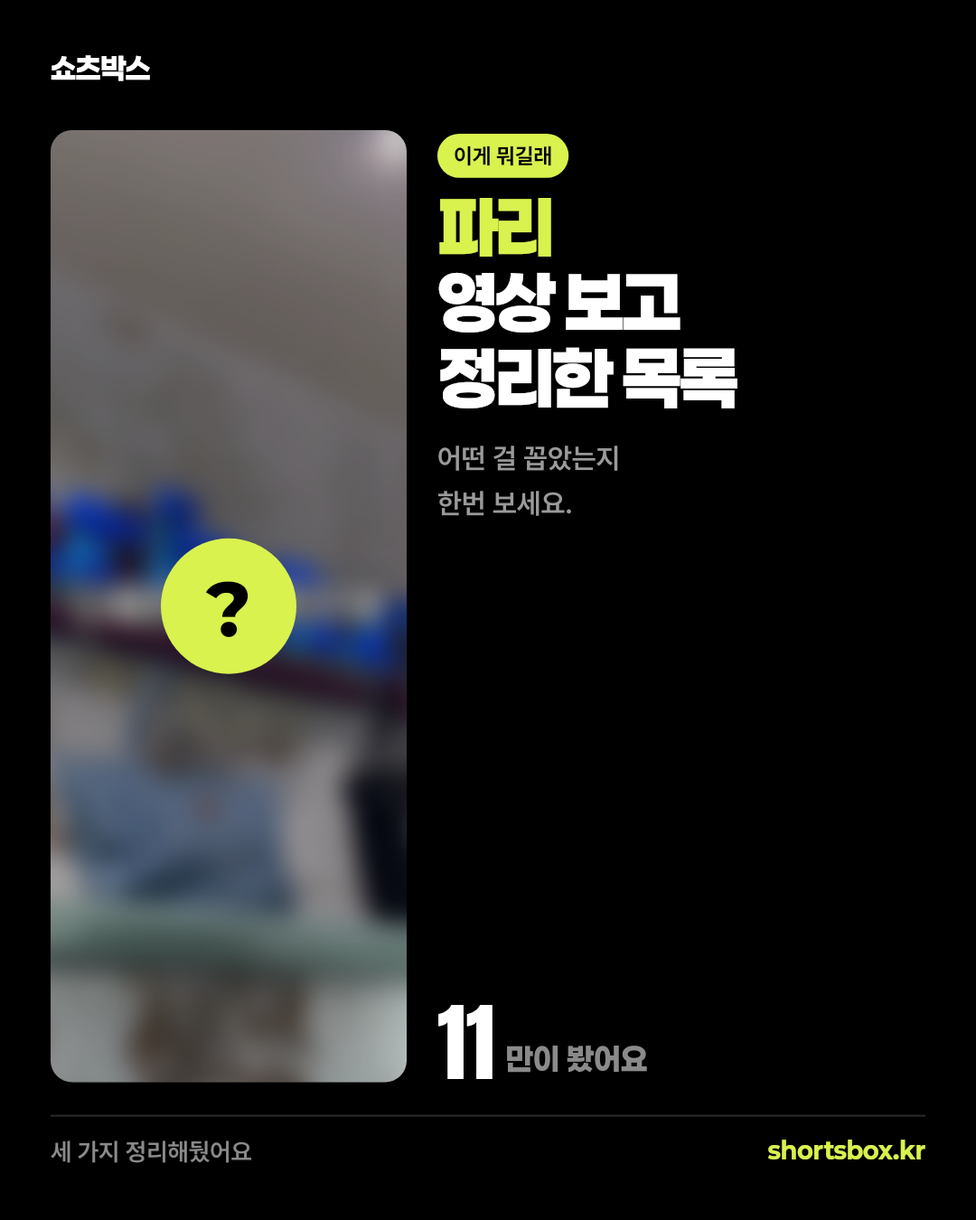
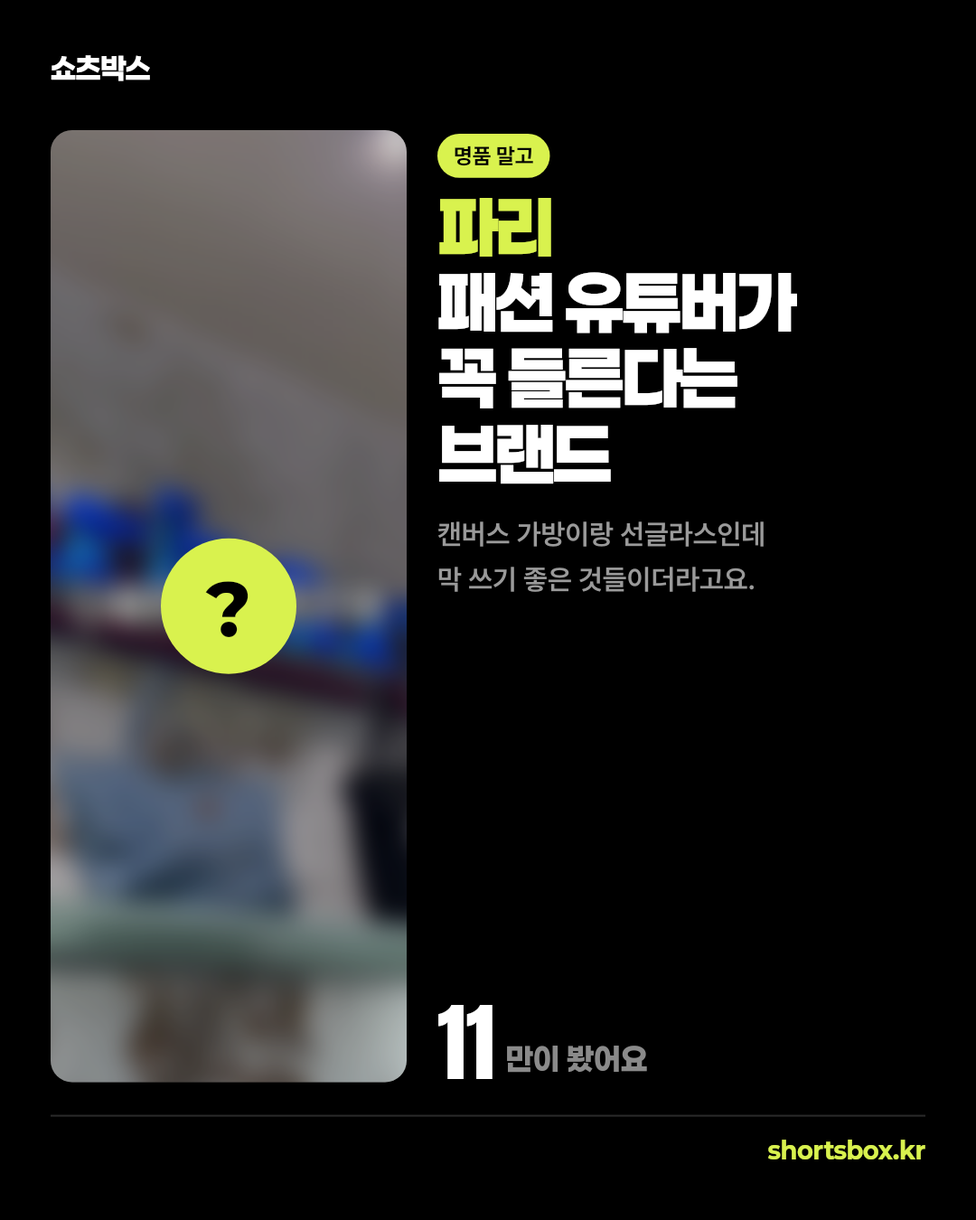
카드 카피를 영상 15개분 새로 쓰고 왼쪽 하단 문구를 뺀다
사용자가 오늘 파리 카드를 보고 "후킹이 전혀 안 된다"고 했다.

  파리 / 영상 보고 / 정리한 목록
  어떤 걸 꼽았는지 / 한번 보세요.

자동 생성(buildFallback) 카피다. 손으로 쓴 카피는 10개 영상에만 있었는데, 8/19 에
최근 60장에 쓴 영상을 제외하는 히스토리를 넣은 뒤로 그 10개는 한 번 쓰면 두 달간
안 나온다. 여행지가 10일마다 돌아오니 두 달이면 여행지당 영상 6개가 필요한데 손 카피는
1개씩뿐이었다 — 드물게 쓰려던 폴백이 매일 나가는 구조가 됐다. 로테이션을 그대로
시뮬레이션해보니 9/14 ~ 9/27 카드 14장이 전부 폴백이었다.

1. 그 14장 + 오늘 파리 = 영상 15개에 손 카피를 썼다.
   헤드라인마다 궁금증이 걸리는 한 가지를 뒀다 — 권위(패션 유튜버가 꼭 들른다는,
   여자 아이돌들이 꼭 집는다는), 통념 뒤집기(초콜릿만 사 오면 아쉽다는데, 기념품
   가게 말고 월마트에서), 반전(돈키호테 가서 꼭 담는다는 것들 → 대부분 냄새랑 얼룩
   잡는 거). 근거는 소개문구(영상을 보고 쓴 것)와 products 뿐이고 영상에 없는 말,
   가격 비교·순위는 넣지 않았다. 25개 전부 렌더해 자리 넘침 0 을 확인했다.

2. 카드 왼쪽 하단의 "세 가지 정리해뒀어요"를 뺐다(사용자 요청). 헤드라인과 같은 말을
   한 번 더 하는 자리였다. 구분선과 shortsbox.kr 은 둔다. 렌더러·빌더·카피 데이터·
   CARDNEWS.md 에서 foot 을 전부 걷어냈다.

오늘 파리 카드를 같은 영상(gIEuIZXNVR0)으로 다시 만들었다. 히스토리에서 오늘 항목을
지우고 돌려서 같은 영상이 다시 뽑히는 것과 copy_source 가 card-copy.js 인 것을 확인했다.

Changed region(s): [[0.4278, 0.2178, 0.825, 0.4978], [0.0611, 0.9333, 0.275, 0.9644], [0.4583, 0.0933, 0.5806, 0.1556]]

diff --git a/automation/card-copy.js b/automation/card-copy.js
@@ -10,7 +10,10 @@
    - 대화체 종결(~더라고요, ~대요, ~는데). 안내문 말투(~하세요, ~해보세요) 금지
    - 제품을 특정하지 않는다. `?`가 가린 게 무엇이든 문장이 성립해야 한다
    - 확인 못 한 것(가격 비교·순위·댓글 반응) 금지
-   - 구매 유도 금지. 푸터는 "정리해뒀어요"처럼 있는 사실만
+   - 구매 유도 금지
+   - **"영상 보고 정리한 목록" 같은 설명문은 후킹이 아니다.** 헤드라인엔 궁금증이 걸리는
+     한 가지(의외성·권위·반전·구체적 장면)가 있어야 한다. 2026-09-13 에 폴백 카피가
+     매일 나가는 걸 사용자가 "후킹이 전혀 안 된다"고 지적했다 — 아래 영상별 카피 참고
    - 카드 이미지 안에는 이모지 금지(디자인 원칙). 캡션에는 허용
    - 조회수는 캡션에만 쓴다. 카드 하단에 큰 숫자로 이미 있다
    - **headline 에 여행지 이름을 다시 쓰지 않는다.** 렌더러가 목적지를 헤드라인
@@ -29,7 +32,6 @@ const CARD_COPY = {
     badge: '이게 뭐길래',
     headline: ['승무원이', '7년째 쓴다는', '것들'],
     sub: ['짐 싸다 매번 뭔가 빠뜨리는', '사람이면 볼 만해요.'],
-    foot: '전부 정리해뒀어요',
     hook: '전직 승무원이 7년째 쓴다는 여행템을 꼽은 영상이 조회수 {views}만이 나왔더라고요',
     detail: '짐 싸다 매번 뭔가 빠뜨리는 사람이면 볼 만해요',
     dcTitle: '승무원들이 진짜 쓰는 여행템 뭐가 있음?',
@@ -41,7 +43,6 @@ const CARD_COPY = {
     badge: '이게 뭐길래',
     headline: ['돈키호테 가서', '이걸 안 사면', '후회한다는데'],
     sub: ['무조건 사와야 한다는 게', '하필 다 약이더라고요.'],
-    foot: '세 가지 정리해뒀어요',
     hook: '돈키호테에서 무조건 사와야 한다는 걸 꼽은 영상이 조회수 {views}만이 나왔는데',
     detail: '하필 다 약이더라고요. 파스랑 소화제, 비졸림 감기약',
     dcTitle: '돈키호테에서 약 사오는 사람 많음?ㅋㅋ',
@@ -53,7 +54,6 @@ const CARD_COPY = {
     badge: '이게 뭐길래',
     headline: ['일본인들이', '놀라자빠졌다는', '그 물건'],
     sub: ['편의점에서 산 건데,', '계산할 때 직원이 다 쳐다봤대요.'],
-    foot: '뭔지 정리해뒀어요',
     hook: '일본 편의점에서 물건 하나 꺼냈다가 직원들을 놀라게 만든 영상이 조회수 {views}만이 나왔더라고요',
     detail: '뭐 대단한 것도 아니고 동전 정리하는 건데 계산할 때 다들 쳐다봤대요',
     dcTitle: '일본 편의점에서 동전 꺼낼 때 쓰는 거 뭐가 좋음?ㅋㅋ',
@@ -65,7 +65,6 @@ const CARD_COPY = {
     badge: '이건 꼭 산다던',
     headline: ['마트에서', '카트에 담는', '것들'],
     sub: ['열두 개를 꼽았는데 과자랑', '밀크티가 계속 나오더라고요.'],
-    foot: '네 가지 정리해뒀어요',
     hook: '방콕 마트에서 뭘 담아야 하나 싶어서 봤는데 열두 개를 꼽은 영상이 있더라고요',
     detail: '대단한 건 아니고 과자랑 밀크티 같은 건데 다들 이건 꼭 담는대요',
     dcTitle: '방콕 빅씨에서 뭐 사옴? 나만 맨날 똑같은 거 사는 듯',
@@ -77,7 +76,6 @@ const CARD_COPY = {
     badge: '이건 꼭 산다던',
     headline: ['베트남에서', '한 봉지씩', '사온다는 것'],
     sub: ['열한 개 꼽았는데 선물용으로', '괜히 다 담고 싶어지더라고요.'],
-    foot: '다섯 가지 정리해뒀어요',
     hook: '베트남에서 사올 만한 걸 열한 개 꼽은 영상이 조회수 {views}만이 나왔더라고요',
     detail: '선물로 돌리기 좋은 것들이라 괜히 다 담고 싶어지대요',
     dcTitle: '베트남 갈 때 선물용으로 뭐 사옴?',
@@ -89,7 +87,6 @@ const CARD_COPY = {
     badge: '국룰이라던',
     headline: ['가면 다들', '입는다는', '그 바지'],
     sub: ['현지에서 사서 바로 갈아입는', '사람이 많대요.'],
-    foot: '뭔지 정리해뒀어요',
     hook: '태국 여행 국룰 패션템이라는 게 있는데 다들 이거 하나씩 입더라고요',
     detail: '현지에서 사서 바로 갈아입는 사람이 많대요',
     dcTitle: '태국 가서 코끼리바지 안 사면 손해임?ㅋㅋ',
@@ -101,7 +98,6 @@ const CARD_COPY = {
     badge: '기념품으로는',
     headline: ['가서 뭘', '사와야 하나', '싶을 때'],
     sub: ['에펠탑 열쇠고리 말고', '이런 걸 담는대요.'],
-    foot: '네 가지 정리해뒀어요',
     hook: '파리에서 뭘 사와야 하나 싶어서 봤는데 조회수 {views}만짜리 영상이 꼽은 게 좀 달랐어요',
     detail: '에펠탑 열쇠고리 같은 게 아니라 잼이랑 약 같은 것들이더라고요',
     dcTitle: '파리 기념품 뭐 사옴? 열쇠고리 말고',
@@ -113,7 +109,6 @@ const CARD_COPY = {
     badge: '여행룩 참고용',
     headline: ['가서 뭘', '입어야 하나', '싶을 때'],
     sub: ['옷차림 감 잡기엔 이게', '제일 빠른 것 같더라고요.'],
-    foot: '세 가지 정리해뒀어요',
     hook: '스위스 여행룩 참고하려고 봤는데 연예인 인스타에서 그대로 따온 영상이더라고요',
     detail: '옷차림 감 잡기엔 이게 제일 빠른 것 같아요',
     dcTitle: '스위스 갈 때 뭐 입고 감? 사진은 남겨야 하는데',
@@ -125,7 +120,6 @@ const CARD_COPY = {
     badge: '다들 사온다던',
     headline: ['가면 하나씩', '사온다는', '것들'],
     sub: ['짐 늘어나는 걸 알면서도', '결국 담게 되더라고요.'],
-    foot: '네 가지 정리해뒀어요',
     hook: '발리 가면 다들 하나씩 사온다는 걸 꼽은 영상이 있더라고요',
     detail: '짐 늘어나는 거 알면서도 결국 담게 된다는 것들이에요',
     dcTitle: '발리에서 뭐 사옴? 짐 늘어나는 거 알면서도 사는 거',
@@ -137,11 +131,181 @@ const CARD_COPY = {
     badge: '장거리 필수라던',
     headline: ['비행기에서', '이거 없으면', '괴롭다는데'],
     sub: ['열 시간 넘게 앉아 있어야 하면', '특히 그렇대요.'],
-    foot: '세 가지 정리해뒀어요',
     hook: '기내에서 꼭 챙겨야 한다는 걸 다섯 개 꼽은 영상이 조회수 {views}만이 나왔더라고요',
     detail: '열 시간 넘게 앉아 있어야 하는 노선이면 특히 그렇대요',
     dcTitle: '장거리 비행기에서 뭐 챙겨감? 잠이 안 와서 미치겠음',
     dcBody: '기내 필수템 다섯 개 꼽은 쇼츠 보다가 알았는데 나는 이어폰 말고 챙긴 게 없더라. 조회수 {views}만이면 다들 준비해서 타는 건가 싶었음',
+  },
+
+  /* ── 2026-09-13 추가 ──────────────────────────────────────────
+     히스토리(최근 60장 제외)가 생긴 뒤로 위 10개는 한 번 쓰면 두 달간 안 나오고,
+     손 카피 없는 영상이 뽑혀 폴백이 매일 나갔다. 로테이션을 시뮬레이션해
+     9/13 ~ 9/27 에 실제로 뽑힐 15개를 골라 썼다. 소개문구(영상을 보고 쓴 것)와
+     products 를 근거로 했다 — 영상에 없는 말은 넣지 않았다. */
+
+  /* 파리 — 파리 쇼핑 브랜드 (옷입는 망고, 패션 채널) */
+  'gIEuIZXNVR0': {
+    badge: '명품 말고',
+    headline: ['패션 유튜버가', '꼭 들른다는', '브랜드'],
+    sub: ['캔버스 가방이랑 선글라스인데', '막 쓰기 좋은 것들이더라고요.'],
+    hook: '파리 가서 뭘 사 올지 고민이었는데 패션 유튜버가 꼭 들른다는 브랜드 영상이 조회수 {views}만이 나왔더라고요',
+    detail: '명품 말고 캔버스 가방이랑 선글라스처럼 막 쓰기 좋은 것들이에요',
+    dcTitle: '파리 가서 명품 말고 뭐 사옴?',
+    dcBody: '조회수 {views}만 찍은 쇼츠 보다가 알았는데 캔버스 가방 하나씩 사 오더라. 나는 면세점만 돌다가 정작 쓸 건 못 삼',
+  },
+
+  /* 스위스 — 쇼핑리스트 13 (여행에미치다) */
+  'jviFD7dzVTs': {
+    badge: '여행에미치다 픽',
+    headline: ['초콜릿만 사 오면', '아쉽다는데'],
+    sub: ['칼이랑 시계, 방수 가방까지', '생각보다 종류가 많더라고요.'],
+    hook: '스위스 가면 초콜릿만 사 오는 줄 알았는데 여행에미치다가 꼽은 쇼핑리스트가 조회수 {views}만이 나왔더라고요',
+    detail: '멀티툴 나이프랑 손목시계, 방수 가방까지 생각보다 종류가 많아요',
+    dcTitle: '스위스 가서 초콜릿 말고 뭐 사옴?',
+    dcBody: '조회수 {views}만 찍은 쇼츠 보다가 알았는데 멀티툴 칼 사 오는 사람이 꽤 있더라. 나는 초콜릿만 한 봉지 사 와서 다 먹고 끝남',
+  },
+
+  /* 발리 — 하나씩 사 온다는 가방 (버블리) */
+  'mP_xlH9WBVg': {
+    badge: '또 사 왔대요',
+    headline: ['갈 때마다', '하나씩 사 온다는', '그 가방'],
+    sub: ['크로스백이랑 미니 파우치,', '갈 때마다 늘어난대요.'],
+    hook: '발리 갈 때마다 하나씩 사 온다는 가방 영상이 조회수 {views}만이 나왔더라고요',
+    detail: '크로스백이랑 미니 파우치라 여행 가서 막 메기 좋은 것들이에요',
+    dcTitle: '발리 가서 가방 사 온 사람 있음?',
+    dcBody: '조회수 {views}만 찍은 쇼츠 보다가 알았는데 다들 크로스백 하나씩 사 오더라. 나는 갔을 때 그냥 지나쳤는데 좀 아까움',
+  },
+
+  /* 하와이 — 쇼핑하울 (미니홈) */
+  'lokhMOLpNcY': {
+    badge: '기념품 고민이면',
+    headline: ['하와이 느낌', '그대로 들고 온', '가방'],
+    sub: ['리조트 감성 캔버스 백인데', '마그넷보다는 쓸 데가 많아요.'],
+    hook: '하와이 쇼핑하울 보다가 기념품으로 괜찮은 가방을 봤는데',
+    detail: '리조트 감성 캔버스 에코백이라 마그넷보다는 쓸 데가 많아요',
+    dcTitle: '하와이 기념품 마그넷 말고 뭐 사옴?',
+    dcBody: '하와이 쇼핑하울 쇼츠 보다가 알았는데 캔버스 에코백 괜찮더라. 나는 맨날 마그넷만 사 와서 냉장고에 붙일 데도 없음',
+  },
+
+  /* 제주 — 여행 패션 아이템 5가지 (미드라이프 GML) */
+  'duejQqWCFds': {
+    badge: '짐 싸기 전에',
+    headline: ['여행 갈 때', '옷 고민 끝낸다는', '다섯 가지'],
+    sub: ['원피스 하나에 샌들, 모자까지', '돌려 입기 좋은 것들이더라고요.'],
+    hook: '여행 갈 때 옷 뭐 챙길지 고민이었는데 딱 다섯 가지만 챙기라는 영상이 조회수 {views}만이 나왔더라고요',
+    detail: '원피스 하나에 커버업, 샌들, 모자까지 돌려 입기 좋은 것들이에요',
+    dcTitle: '여행 갈 때 옷 몇 벌 챙김? 맨날 반은 안 입고 옴',
+    dcBody: '조회수 {views}만 찍은 쇼츠에서 다섯 개만 챙기라더라. 나는 캐리어 반을 옷으로 채우고 매일 같은 거 입었음',
+  },
+
+  /* 오사카 — 돈키호테 추천템 7가지 (투현커플). 6개 중 4개가 탈취·구취·섬유향·얼룩 */
+  'Wg0GKLZsLQQ': {
+    badge: '의외였던',
+    headline: ['돈키호테 가서', '꼭 담는다는', '것들'],
+    sub: ['뭔가 했더니 대부분', '냄새랑 얼룩 잡는 거더라고요.'],
+    hook: '돈키호테에서 꼭 사야 한다는 걸 꼽은 영상이 조회수 {views}만이 나왔는데',
+    detail: '뭔가 했더니 대부분 탈취제나 얼룩 제거제처럼 냄새랑 얼룩 잡는 것들이더라고요',
+    dcTitle: '돈키호테에서 과자 말고 생활용품 사는 사람 있음?',
+    dcBody: '조회수 {views}만 찍은 쇼츠 봤는데 꼽은 게 죄다 탈취제랑 얼룩 제거제더라. 나는 과자만 캐리어 가득 채워 왔었음',
+  },
+
+  /* 도쿄 — 여돌들이 강추한 일본 편의점템 (패션탐정냥) */
+  'aqwQJ6a09IM': {
+    badge: '여돌들 픽이라던',
+    headline: ['여자 아이돌들이', '편의점 가면', '꼭 집는다는'],
+    sub: ['버터 쿠키랑 컵라면인데', '의외로 소박하더라고요.'],
+    hook: '여자 아이돌들이 일본 편의점에서 강추한 걸 모은 영상이 조회수 {views}만이 나왔더라고요',
+    detail: '버터 샌드 쿠키랑 돈코츠 컵라면인데 생각보다 소박해서 더 믿음이 가요',
+    dcTitle: '아이돌들이 일본 편의점에서 사는 거 뭐임?',
+    dcBody: '조회수 {views}만 찍은 쇼츠 보다가 알았는데 버터 샌드 쿠키랑 컵라면이더라. 나도 똑같은 거 사 먹었는데 괜히 반가웠음',
+  },
+
+  /* 방콕 — 태국 쇼핑템 (영서). 셋 다 바르고 뿌리는 것 */
+  'AzlB9itzhj4': {
+    badge: '과자 말고',
+    headline: ['가서 이런 걸', '사 오는 사람도', '있더라고요'],
+    sub: ['목 스프레이랑 트리트먼트,', '다 바르고 뿌리는 것들이에요.'],
+    hook: '방콕 가면 과자만 사 오는 줄 알았는데 이런 걸 사 오는 사람도 있더라고요',
+    detail: '프로폴리스 목 스프레이랑 헤어 트리트먼트, 미백 로션처럼 다 바르고 뿌리는 것들이에요',
+    dcTitle: '태국 가서 화장품 사 오는 사람 있음?',
+    dcBody: '조회수 {views}만 찍은 쇼츠 보다가 알았는데 목 스프레이를 사 오더라. 나는 맨날 과자만 사다가 이번엔 좀 흔들림',
+  },
+
+  /* 다낭 — 베트남 기념품 쇼핑리스트 (여행하마) */
+  'fVyh8q5hFt8': {
+    badge: '베트남 가기 전에',
+    headline: ['기념품이라더니', '영양제까지', '나오더라고요'],
+    sub: ['라탄 가방에 캐슈넛,', '여드름 크림도 있더라고요.'],
+    hook: '베트남 기념품 쇼핑리스트를 보다가 영양제까지 나와서 좀 놀랐는데 조회수가 {views}만이더라고요',
+    detail: '라탄 가방이랑 캐슈넛, 코끼리 바지에 여드름 크림, 아티초크 영양제까지 종류가 넓어요',
+    dcTitle: '베트남 기념품 영양제도 사 옴?',
+    dcBody: '조회수 {views}만 찍은 쇼츠 보다가 알았는데 아티초크 영양제를 사 오더라. 나는 커피랑 캐슈넛만 사 왔는데 다음엔 챙겨볼 듯',
+  },
+
+  /* 치앙마이 — 태국인만 몰래 쓰던 3가지 (똑주부). 이름이 길어 헤드라인 2줄 */
+  'pFK3dQZlCT4': {
+    badge: '태국 사람들 픽',
+    headline: ['현지인들이', '몰래 쓰던 거래요'],
+    sub: ['세 개 다 허브로 만든 건데', '모기 물렸을 때 특히 좋대요.'],
+    hook: '태국 사람들이 몰래 쓰던 거라는 영상이 조회수 {views}만이 나왔는데',
+    detail: '허브 오일이랑 허브 비누, 허브 치약까지 세 개 다 허브로 만든 거라 신기했어요',
+    dcTitle: '태국 허브 오일 써본 사람? 모기 물린 데 좋다던데',
+    dcBody: '조회수 {views}만 찍은 쇼츠에서 현지인들이 쓰는 거라더라. 나는 태국 가서 모기만 잔뜩 물리고 아무것도 안 사 옴',
+  },
+
+  /* 파리 — 프랑스 약국 필수템 (트레비앙) */
+  '0HLvb5rYLBE': {
+    badge: '약국 쇼핑이면',
+    headline: ['약국 가면', '반드시 사야 한다는', '그것'],
+    sub: ['화장품 가게가 아니라', '약국에서 파는 오일이에요.'],
+    hook: '파리 약국에 가면 반드시 사야 한다는 게 뭔가 봤는데',
+    detail: '화장품 가게가 아니라 약국에서 파는 스킨케어 오일이더라고요',
+    dcTitle: '프랑스 약국에서 뭐 사옴? 다들 약국 가던데',
+    dcBody: '프랑스 약국 쇼츠 보다가 알았는데 스킨케어 오일을 약국에서 사더라. 나는 약국은 들어가 볼 생각도 못 했음',
+  },
+
+  /* 스위스 — 스위스 마트 쇼핑리스트 (이찬이네) */
+  'tuC1BGo0cZc': {
+    badge: '마트에서만',
+    headline: ['비싸다는 나라에서', '마트 간식만', '골라 봤대요'],
+    sub: ['감자칩이랑 젤리, 육포까지', '딱 여행 간식이더라고요.'],
+    hook: '물가 비싸기로 유명한 스위스에서 마트 간식만 골라 온 영상을 봤는데',
+    detail: '파프리카맛 감자칩이랑 젤리, 육포까지 여행하면서 먹기 딱 좋은 것들이에요',
+    dcTitle: '스위스 마트 간식 뭐 맛있음? 물가 무서워서',
+    dcBody: '스위스 마트 쇼츠 보다가 알았는데 파프리카맛 감자칩이 있더라. 나는 물가 무서워서 편의점도 못 들어갔음',
+  },
+
+  /* 발리 — 발리 필수템 best5 (연트립). 석회수·모기 */
+  '1j3SZiQiGkw': {
+    badge: '출발 전 체크',
+    headline: ['가기 전에', '이거 안 챙기면', '고생한대요'],
+    sub: ['샤워기 필터랑 모기 패치인데', '둘 다 발리라서 필요한 거예요.'],
+    hook: '발리 가기 전에 챙겨야 한다는 걸 보다가 샤워기 필터가 나와서 멈췄는데',
+    detail: '석회 방지 샤워기 필터랑 모기 패치처럼 발리라서 필요한 것들이에요',
+    dcTitle: '발리 갈 때 샤워기 필터 챙겨감?',
+    dcBody: '발리 필수템 쇼츠 보다가 알았는데 샤워기 필터를 챙겨가더라. 나는 그냥 갔다가 머리카락 뻣뻣해져서 옴',
+  },
+
+  /* 하와이 — 월마트 쇼핑리스트 7 (허니문리조트) */
+  'wK1hOo_ltpc': {
+    badge: '가격 공개라던',
+    headline: ['기념품 가게 말고', '월마트에서', '사 온 것들'],
+    sub: ['코나 커피랑 마카다미아,', '월마트에도 다 있더라고요.'],
+    hook: '하와이 기념품을 기념품 가게 말고 월마트에서 산 영상을 봤는데',
+    detail: '코나 커피랑 마카다미아 캐러멜처럼 기념품 가게에 있는 게 월마트에도 다 있더라고요',
+    dcTitle: '하와이 기념품 월마트에서 사도 됨?',
+    dcBody: '월마트 쇼핑리스트 쇼츠 보다가 알았는데 코나 커피를 월마트에서 사더라. 나는 ABC 스토어에서만 사 왔음',
+  },
+
+  /* 제주 — 다이소 여행 꿀템 6가지 (진쓰) */
+  'su4MacHxRJs': {
+    badge: '떠나기 전날',
+    headline: ['출발 전에', '다이소에서', '챙겨 가라는 것들'],
+    sub: ['카드 케이스랑 폰 스트랩처럼', '없으면 아쉬운 것들이에요.'],
+    hook: '여행 가기 전에 다이소에서 챙기라는 여섯 가지 영상이 조회수 {views}만이 나왔더라고요',
+    detail: 'RFID 카드 케이스랑 폰 스트랩, 접이식 가방처럼 막상 없으면 아쉬운 것들이에요',
+    dcTitle: '해외여행 전에 다이소에서 뭐 삼?',
+    dcBody: '조회수 {views}만 찍은 쇼츠 보다가 알았는데 폰 스트랩을 다이소에서 사더라. 나는 공항에서 비싸게 샀었음',
   },
 };
 
@@ -238,7 +402,6 @@ function buildFallback({ destName, note, productCount, youtubeId }) {
     badge: hasItems ? '이게 뭐길래' : '이런 것도 있네',
     headline: hasItems ? pickHeadline(youtubeId) : ['이 영상이', '꼽은 것들'],
     sub,
-    foot: hasItems ? `${cnt} 정리해뒀어요` : '영상에서 확인해보세요',
     hook: `${destName} 쇼츠 중에 조회수 {views}만짜리가 있는데`,
     /* 캡션은 카드와 달리 길이 제약이 없으니 소개문구를 통째로 쓴다. */
     detail: sentence || '어떤 걸 꼽았는지 한번 보세요',

diff --git a/scripts/generate-daily-card.js b/scripts/generate-daily-card.js
@@ -7,8 +7,7 @@
      node scripts/generate-daily-card.js <slug> \
        --badge "손에 든 게 뭐길래" \
        --headline "돈키호테 가서 이걸|안 사면 후회한다는데" \
-       --sub "파스, 소화제, 비졸림 감기약.|영상이 꼽은 건 이 세 개예요." \
-       --foot "세 가지 다 정리해뒀어요"
+       --sub "파스, 소화제, 비졸림 감기약.|영상이 꼽은 건 이 세 개예요."
 
    **목적지 이름은 헤드라인에 쓰지 않는다** — 스크립트가 라임색 첫 줄로 자동으로 붙인다.
    헤드라인·보조문구의 줄바꿈은 "|" 로 직접 넣는다. 자동 줄바꿈을 쓰지 않는 이유는
@@ -290,15 +289,14 @@ function renderCard({ img, destName, viewsMan, copy }) {
   const numW = widthOf(ctx, String(viewsMan), { size: 96, family: 'Anton' });
   text(ctx, '만이 봤어요', colX + numW + 12, viewsBase - 8, { size: 34, family: 'Paperlogy XBold', color: G2 });
 
-  /* 푸터 — 이미지는 피드에서 클릭이 안 되므로 버튼처럼 보이는 요소를 쓰지 않는다.
-     왼쪽은 사이트에 뭐가 있는지, 오른쪽은 주소. */
+  /* 푸터 — 구분선과 오른쪽 주소만 둔다. 이미지는 피드에서 클릭이 안 되므로 버튼처럼
+     보이는 요소를 쓰지 않는다.
+     왼쪽의 "세 가지 정리해뒀어요" 는 2026-09-13 에 뺐다(사용자 요청). 헤드라인·보조문구가
+     이미 영상을 설명하고 있어서 같은 말을 한 번 더 하는 자리였다. */
   ctx.fillStyle = LINE;
   ctx.fillRect(PAD, footerLineY, W - PAD * 2, 2);
   const fBase = footerLineY + 28 + 27 * 0.8;
   const addr = { size: 26, family: 'Paperlogy XBold', color: LIME };
-  const footOpt = { size: 27, family: 'Pretendard SemiBold', color: G2 };
-  fit('푸터', [copy.foot], footOpt, W - PAD * 2 - widthOf(ctx, 'shortsbox.kr', addr) - 24);
-  text(ctx, copy.foot, PAD, fBase, footOpt);
   text(ctx, 'shortsbox.kr', W - PAD, fBase, { ...addr, align: 'right' });
 
   return { canvas, overflow };
@@ -318,14 +316,14 @@ function parseArgs(argv) {
 }
 
 function usage() {
-  console.error(`사용법: node scripts/generate-daily-card.js <slug> --badge "..." --headline "1줄|2줄|3줄" --sub "1줄|2줄" --foot "..."`);
+  console.error(`사용법: node scripts/generate-daily-card.js <slug> --badge "..." --headline "1줄|2줄|3줄" --sub "1줄|2줄"`);
   console.error(`슬러그: ${Object.values(DESTINATION_SLUGS).join(', ')}`);
 }
 
 async function main() {
   const { slug, opts } = parseArgs(process.argv.slice(2));
   const probe = !!opts.probe;   // 렌더 없이 그날 쓸 영상·조회수만 조회한다
-  if (!slug || (!probe && (!opts.badge || !opts.headline || !opts.sub || !opts.foot))) {
+  if (!slug || (!probe && (!opts.badge || !opts.headline || !opts.sub))) {
     usage();
     process.exit(1);
   }
@@ -336,7 +334,6 @@ async function main() {
     badge: opts.badge.trim(),
     headline: opts.headline.split('|').map(s => s.trim()).filter(Boolean),
     sub: opts.sub.split('|').map(s => s.trim()).filter(Boolean),
-    foot: opts.foot.trim(),
   };
   /* 목적지 한 줄이 앞에 자동으로 붙으므로 카피는 3줄까지다(총 4줄). */
   if (copy && copy.headline.length > 3) throw new Error('헤드라인 카피는 최대 3줄 — 목적지 줄이 자동으로 앞에 붙는다');

diff --git a/scripts/build-daily-post.js b/scripts/build-daily-post.js
@@ -104,7 +104,6 @@ function renderCard(slug, copy, exclude, suffix) {
     '--badge', copy.badge,
     '--headline', copy.headline.join('|'),
     '--sub', copy.sub.join('|'),
-    '--foot', copy.foot,
     '--exclude', exclude,
     '--suffix', suffix,
   ];

diff --git a/automation/CARDNEWS.md b/automation/CARDNEWS.md
@@ -47,14 +47,13 @@
 
 ## 3. 카피 쓰기 — 여기가 제일 중요하다
 
-카드에 들어가는 건 네 덩이다.
+카드에 들어가는 건 세 덩이다(푸터 문구는 2026-09-13 에 뺐다 — 헤드라인과 같은 말을 한 번 더 하는 자리였다).
 
 | 자리 | 성격 | 분량 |
 |---|---|---|
 | 배지 | 라임 알약. 짧은 한마디 | 5~9자 |
 | 헤드라인 | 카드의 얼굴. 줄바꿈을 직접 정한다 | **2~3줄**, 한 줄 7자 안팎 |
 | 보조문구 | 헤드라인을 받아주는 설명 | 2줄 |
-| 푸터 | 사이트에 뭐가 있는지 | 12~16자 |
 
 **목적지 이름은 헤드라인에 쓰지 않는다(2026-08-10).** 스크립트가 라임색 첫 줄로 자동으로 붙인다 — `오사카` / `돈키호테 가서` / `이걸 안 사면` / `후회한다는데` 처럼 된다. 카피에 `오사카`를 또 쓰면 두 번 나온다. 헤더 오른쪽에 있던 `08.10 오사카` 라벨은 없앴다(같은 정보가 두 곳에 있을 이유가 없고, 날짜는 피드에서 쓸모가 없다).
 
@@ -77,7 +76,7 @@
 - **확인 못 한 건 쓰지 않는다.** 가격 비교(`한국보다 싸다`), 댓글 반응, `제일 많이`·`1위` 같은 순위 표현은 근거가 없으면 쓰지 않는다. 조회수·채널명·아이템 개수는 위 JSON 의 실제 값이다.
 - **개수는 `product_count` 를 쓴다.** 영상 제목의 "3가지"와 우리가 정리한 개수가 다를 수 있다.
 - **조회수 숫자를 카피에 또 넣지 않는다.** 카드 하단에 큰 숫자로 이미 있다 — 배지나 보조문구에 `477만이 본` 을 넣으면 같은 숫자가 두 번 나온다.
-- **판매·구매 유도 금지.** `구매처 확인하세요`, `사세요` 안 쓴다. 원작자 수익을 가로채는 느낌을 주지 않기 위한 원칙이라 꼭 지킨다. 푸터는 `정리해뒀어요` 처럼 있는 사실만 알린다.
+- **판매·구매 유도 금지.** `구매처 확인하세요`, `사세요` 안 쓴다. 원작자 수익을 가로채는 느낌을 주지 않기 위한 원칙이라 꼭 지킨다.
 
 ### 채널별 캡션
 
